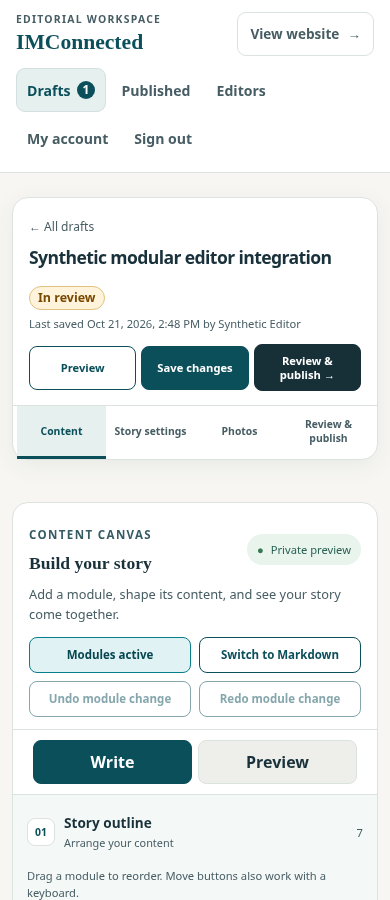
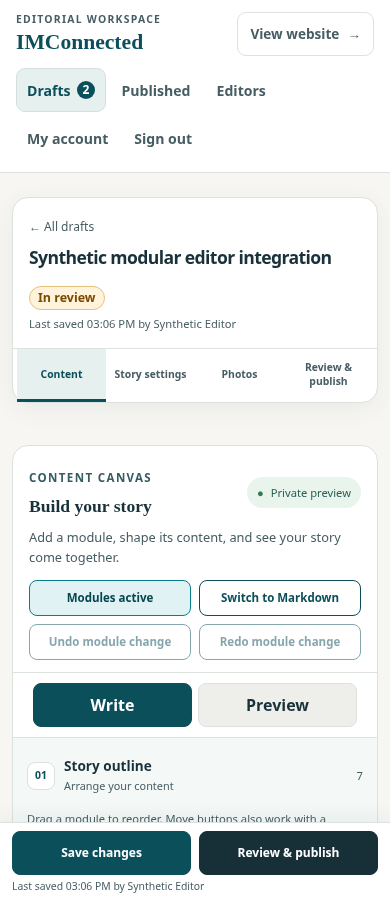
Add GPT delegation roles and refine mobile story editing

diff --git a/src/scripts/story-builder.ts b/src/scripts/story-builder.ts
@@ -34,7 +34,13 @@ if (form && blocksField) {
   const clone = (value: StoryBlock[]) => JSON.parse(JSON.stringify(value)) as StoryBlock[];
   const announce = (message: string) => { status.textContent = message; };
   const changed = () => form.dispatchEvent(new Event('input', { bubbles: true }));
-  const snapshot = () => JSON.stringify({ blocks, modular, body: body.value });
+  const snapshot = () => JSON.stringify({ blocks, modular, body: body.value, selected });
+  function focusSelected() {
+    const target = modular
+      ? outline.querySelector<HTMLButtonElement>(`[data-select-module="${CSS.escape(selected)}"]`) || document.querySelector<HTMLButtonElement>('[data-add-module="text"]')
+      : useModules;
+    target?.focus();
+  }
   function remember(key = '') {
     const now = Date.now();
     if (!key || key !== editKey || now - editAt > 800) {
@@ -63,6 +69,8 @@ if (form && blocksField) {
     if (count) count.textContent = String(blocks.length);
     const summary = document.querySelector('[data-review-content]');
     if (summary) summary.textContent = modular ? `${blocks.length} modules` : 'Markdown story';
+    const start = document.getElementById('module-start-writing');
+    if (start) start.hidden = !(blocks.length === 1 && blocks[0].type === 'text' && !blocks[0].text);
     for (const button of document.querySelectorAll<HTMLButtonElement>('[data-add-module="image"]')) {
       button.disabled = !editable || !photos.some((p) => p.src);
       button.title = photos.some((p) => p.src) ? 'Place a story photo in the text' : 'Upload a photo in Photos first';
@@ -87,8 +95,9 @@ if (form && blocksField) {
     if (!editable || from < 0 || to < 0 || to >= blocks.length || from === to) return;
     remember();
     blocks.splice(to, 0, blocks.splice(from, 1)[0]);
+    selected = id;
     render(); changed(); announce(`Module moved to position ${to + 1}.`);
-    outline.querySelector<HTMLButtonElement>(`[data-select-module="${id}"]`)?.focus();
+    focusSelected();
   }
   function renderOutline() {
     outline.replaceChildren();
@@ -96,7 +105,7 @@ if (form && blocksField) {
       const item = node('li');
       item.draggable = editable;
       item.dataset.moduleId = block.id;
-      const select = button(`${index + 1}. ${labels[block.type]}`, () => { selected = block.id; render(); }, `Edit ${labels[block.type]} module ${index + 1}`);
+      const select = button(`${index + 1}. ${labels[block.type]}`, () => { selected = block.id; render(); focusSelected(); }, `Edit ${labels[block.type]} module ${index + 1}`);
       select.dataset.selectModule = block.id;
       const grip = node('span', '⠿', 'sb-grip'); grip.setAttribute('aria-hidden', 'true'); select.prepend(grip);
       select.setAttribute('aria-pressed', String(selected === block.id));
@@ -134,6 +143,7 @@ if (form && blocksField) {
     const input = multiline ? node('textarea') : node('input');
     if (input instanceof HTMLInputElement) input.type = key === 'url' ? 'url' : 'text';
     input.value = value;
+    if (key === 'text' && block.type === 'text') input.placeholder = 'Start writing your story here…';
     input.dataset.moduleField = key;
     input.maxLength = key === 'alt' || block.type === 'heading' ? 300 : key === 'label' ? 120 : multiline ? 20000 : 2048;
     if (input instanceof HTMLTextAreaElement) input.rows = key === 'items' ? 6 : 9;
@@ -165,6 +175,14 @@ if (form && blocksField) {
     const block = blocks.find((b) => b.id === selected);
     if (!block) { title.textContent = 'Module settings'; fields.append(node('p', 'Choose a module, or add one to start your story.', 'admin-note')); return; }
     title.textContent = `${labels[block.type]} settings`;
+    if (block.type === 'text') {
+      const start = node('div', undefined, 'sb-start-writing');
+      start.id = 'module-start-writing';
+      start.hidden = !(blocks.length === 1 && !block.text);
+      start.append(node('p', 'Start writing your story. Your first paragraph is ready.'));
+      start.append(button('Start writing', () => fields.querySelector<HTMLTextAreaElement>('textarea')?.focus()));
+      fields.append(start);
+    }
     if (['text', 'heading', 'quote'].includes(block.type)) field(block, block.type === 'heading' ? 'Heading text' : block.type === 'quote' ? 'Quote text' : 'Paragraph text (Markdown supported)', 'text', block.text || '', block.type !== 'heading');
     if (block.type === 'heading') {
       const label = node('label', 'Heading level');
@@ -183,7 +201,11 @@ if (form && blocksField) {
       const select = node('select'); select.dataset.moduleField = 'photoId';
       const placeholder = node('option', 'Choose a photo'); placeholder.value = ''; select.append(placeholder);
       for (const [i, photo] of photos.entries()) { if (!photo.src) continue; const option = node('option', `${i + 1}. ${photo.alt || 'Story photo'}`); option.value = String(photo.id); option.selected = photo.id === block.photoId; select.append(option); }
-      select.addEventListener('change', () => { update(block, 'photoId', select.value ? Number(select.value) : undefined); renderFields(); });
+      select.addEventListener('change', () => {
+        update(block, 'photoId', select.value ? Number(select.value) : undefined);
+        renderFields();
+        fields.querySelector<HTMLSelectElement>('[data-module-field="photoId"]')?.focus();
+      });
       label.append(select); fields.append(label);
       const photo = photos.find((p) => p.id === block.photoId);
       if (photo?.src) { const img = node('img'); img.src = photo.src; img.alt = block.alt || photo.alt; img.className = 'sb-module-image'; fields.append(img); }
@@ -195,10 +217,10 @@ if (form && blocksField) {
     const actions = node('div', undefined, 'sb-controls');
     actions.append(button('Duplicate module', () => {
       if (blocks.length >= 60) { announce('A story can have up to 60 modules.'); return; }
-      remember(); const copy = clone([block])[0]; copy.id = uid(); blocks.splice(blocks.indexOf(block) + 1, 0, copy); selected = copy.id; render(); changed(); announce('Module duplicated.');
+      remember(); const copy = clone([block])[0]; copy.id = uid(); blocks.splice(blocks.indexOf(block) + 1, 0, copy); selected = copy.id; render(); focusSelected(); changed(); announce('Module duplicated.');
     }), button('Delete module', () => {
       if (!window.confirm(`Delete this ${labels[block.type].toLowerCase()} module? You can undo this change.`)) return;
-      remember(); const at = blocks.indexOf(block); blocks.splice(at, 1); selected = blocks[Math.min(at, blocks.length - 1)]?.id || ''; render(); changed(); announce('Module deleted. Use Undo module change to restore it.');
+      remember(); const at = blocks.indexOf(block); blocks.splice(at, 1); selected = blocks[Math.min(at, blocks.length - 1)]?.id || ''; render(); focusSelected(); changed(); announce('Module deleted. Use Undo module change to restore it.');
     }));
     fields.append(actions);
   }
@@ -237,8 +259,8 @@ if (form && blocksField) {
     fields.querySelector<HTMLElement>('input,textarea,select,button')?.focus();
   });
   function restore(raw: string) {
-    const state = JSON.parse(raw); blocks = state.blocks; modular = state.modular; body.value = state.body; selected = blocks.find((b) => b.id === selected)?.id || blocks[0]?.id || '';
-    editKey = ''; render(); changed();
+    const state = JSON.parse(raw); blocks = state.blocks; modular = state.modular; body.value = state.body; selected = state.selected || blocks[0]?.id || '';
+    editKey = ''; render(); focusSelected(); changed();
   }
   undo.addEventListener('click', () => { if (!editable || !history.length) return; future.push(snapshot()); restore(history.pop()!); announce('Module change undone.'); });
   redo.addEventListener('click', () => { if (!editable || !future.length) return; history.push(snapshot()); restore(future.pop()!); announce('Module change restored.'); });
@@ -329,6 +351,13 @@ if (form && blocksField) {
     });
   }
   for (const control of document.querySelectorAll<HTMLElement>('[data-open-panel]')) control.addEventListener('click', () => setPanel(control.dataset.openPanel!, true));
+  const saveStatus = document.getElementById('save-status');
+  const mobileSaveStatus = document.querySelector('[data-mobile-save-status]');
+  if (saveStatus && mobileSaveStatus) {
+    const reflectStatus = () => { mobileSaveStatus.textContent = saveStatus.textContent; };
+    reflectStatus();
+    new MutationObserver(reflectStatus).observe(saveStatus, { childList: true, subtree: true, characterData: true });
+  }
   for (const control of document.querySelectorAll('[data-studio-preview]')) control.addEventListener('click', () => {
     setPanel('content');
     document.getElementById('split')!.dataset.view = 'preview';

diff --git a/src/styles/story-builder.css b/src/styles/story-builder.css
@@ -63,6 +63,9 @@
 .studio-identity .ed-status { font-size:.7rem; color:var(--ink-2); }
 .studio-primary-actions { display:flex; align-items:center; flex-wrap:wrap; gap:8px; flex-shrink:0; }
 .studio-primary-actions .cms-btn { font-size:.8rem; }
+.studio-mobile-actions { display:none; }
+.sb-start-writing { padding:14px; margin-bottom:16px; border:1px solid var(--line); border-radius:10px; background:var(--bg); }
+.sb-start-writing p { font-size:.85rem; line-height:1.5; margin:0 0 10px; }
 .studio-review-action { background:#172f37; border-color:#172f37; color:white; }
 .studio-tabs { display:grid; grid-template-columns:repeat(4,minmax(0,1fr)); border-top:1px solid var(--line); padding:0 12px; gap:6px; }
 .studio-tabs button { border:0; border-bottom:3px solid transparent; background:transparent; color:var(--ink-2); text-align:left; min-height:66px; padding:12px 16px; font:700 .85rem var(--sans); cursor:pointer; }
@@ -143,6 +146,14 @@
  .editor-studio .sb-photo-preview img { max-width:560px; height:auto; aspect-ratio:16/9; }
 }
 @media(max-width:650px) {
+ .studio-head { position:static; }
+ .studio-primary-actions { display:none; }
+ .editor-studio { padding-bottom:calc(96px + env(safe-area-inset-bottom,0px)); }
+ html:has(.editor-studio) { scroll-padding-bottom:calc(110px + env(safe-area-inset-bottom,0px)); }
+ .editor-studio :is(button,input,textarea,select,[tabindex]) { scroll-margin-bottom:calc(110px + env(safe-area-inset-bottom,0px)); }
+ .studio-mobile-actions { display:grid; grid-template-columns:repeat(2,minmax(0,1fr)); gap:4px 8px; position:fixed; z-index:30; bottom:0; left:0; right:0; padding:8px max(12px,env(safe-area-inset-right,0px)) calc(6px + env(safe-area-inset-bottom,0px)) max(12px,env(safe-area-inset-left,0px)); background:var(--surface); border-top:1px solid var(--line); box-shadow:0 -4px 20px #173e4410; }
+ .studio-mobile-actions .cms-btn { min-height:44px; font-size:.75rem; }
+ .studio-mobile-actions [data-mobile-save-status] { grid-column:1/-1; white-space:nowrap; overflow:hidden; text-overflow:ellipsis; color:var(--ink-2); font-size:.65rem; line-height:1.4; }
  .studio-titlebar { align-items:flex-start; flex-direction:column; gap:10px; }
  .studio-primary-actions { width:100%; }
  .studio-primary-actions .cms-btn { flex:1; font-size:.7rem; min-height:44px; }

diff --git a/src/lib/story-block-render.ts b/src/lib/story-block-render.ts
@@ -27,7 +27,9 @@ export async function renderStoryBlocksSafe(input: StoryBlock[], options: StoryB
         // Only the trusted callback can return a protected editor photo endpoint.
         if (!isStoryImageUrl(url) && !(photo && /^\/api\/admin\/photos\/\d+$/.test(url))) break;
         const x = focalPoint(photo?.focalX ?? b.focalX), y = focalPoint(photo?.focalY ?? b.focalY);
-        out.push(`<figure class="story-module story-module-image"${attr}><a href="${escapeHtml(url)}" data-photo><img src="${escapeHtml(url)}" alt="${escapeHtml(b.alt || photo?.alt || '')}" loading="lazy" decoding="async" style="width:100%;aspect-ratio:16/9;object-fit:cover;object-position:${x}% ${y}%;"></a></figure>`);
+        const alt = b.alt || photo?.alt || '';
+        const linkLabel = alt.trim() ? '' : ' aria-label="Enlarge story photo"';
+        out.push(`<figure class="story-module story-module-image"${attr}><a href="${escapeHtml(url)}" data-photo${linkLabel}><img src="${escapeHtml(url)}" alt="${escapeHtml(alt)}" loading="lazy" decoding="async" style="width:100%;aspect-ratio:16/9;object-fit:cover;object-position:${x}% ${y}%;"></a></figure>`);
         break;
       }
     }

diff --git a/CODEX.md b/CODEX.md
@@ -1,0 +1,51 @@
+# Codex: delegating to GPT subagents
+
+Read [AGENTS.md](AGENTS.md) first. This is the GPT counterpart to [CLAUDE.md](CLAUDE.md), with the owner's model mapping:
+
+| Existing tier | GPT tier | Responsibility | Availability observed on 2026-10-21 |
+| --- | --- | --- | --- |
+| Haiku | Luna | Explorer: broad searches, tracing flows, log summaries and visual QA | `gpt-6-luna`, medium reasoning, read-only |
+| Sonnet | Tera | Implementer: a bounded change with acceptance criteria and owned files | Tera is unavailable here; role inherits the session model |
+| Opus | Sol | Reviewer: independent correctness, security and accessibility review | `gpt-6-sol`, high reasoning, read-only |
+| Astra | Fable | Optional strategist: a bounded difficult investigation | Fable is unavailable here; role inherits the session model, read-only |
+
+These are the owner's routing preferences, not claims about model equivalence. Recheck model IDs against the current tool's model list; availability above records the setup session and may change. Tera and Fable had no selectable IDs when these files were prepared: do not guess IDs. When a role inherits the session model, disclose the actual model before assigning it; do not claim Tera or Fable ran. Pin those roles only when the client exposes a verified ID. Do not silently replace an existing pin when it becomes unavailable.
+
+`.codex/config.toml` registers the four roles for Codex clients that support project-local agent configuration. The role files contain sandbox and task instructions. Project configuration requires the client's normal project trust settings; committing it does not change a running cloud session or install models. In clients exposing collaboration tools instead, select the available model explicitly and pass the relevant role instructions in the task.
+
+## Route work by responsibility
+
+- Use **explorer / Luna** for substantial independent research, repository-wide flow tracing, long logs, screenshots and read-only browser measurements. Do small targeted lookups in the main session.
+- Use **implementer / Tera** for one concrete change with acceptance criteria. A direct user request with clear scope is sufficient authorization; an issue number or `codex-ready` label is useful when present, not a prerequisite for requested work. Return uncertain product decisions to the main session.
+- Use **reviewer / Sol** before opening/updating a code PR or pushing a substantial change. Reviewers report findings and reproduce failures; they do not edit fixes. Include severity, file/line, trigger, user impact and verification evidence. Report no findings plainly when appropriate.
+- Use **strategist / Fable** only for a difficult, bounded investigation when available. It proposes a diagnosis or options; the main session retains design decisions, story copy, user communication and integration.
+
+Parallelize independent work with disjoint file ownership. In a shared checkout, every agent sees every edit. Use the existing cloud checkout; do not create worktrees unless the user requests them. Avoid parallel builds that replace the same `dist/` output, tests sharing a port/database, and overlapping writers. Subagents should not recursively delegate unless the coordinator explicitly assigns that scope.
+
+## Give a complete handoff
+
+Pass each agent the repository path, role, actual selected model, goal, relevant context, acceptance criteria, exact owned files, permitted checks and prohibited actions. Specify whether it may edit. Start bounded agents without the full conversation when practical; include the facts they need rather than relying on hidden context.
+
+For example:
+
+```text
+Role: implementer; intended Tera, actual model: <selectable model disclosed to user>
+Repo: /workspace/IMConnected; read AGENTS.md and CODEX.md.
+Goal: keep keyboard focus on the selected story module after outline rerendering.
+Own: src/scripts/story-builder.ts and its existing browser regression suite.
+Accept: Enter/Space selects the requested module; focus remains visible; duplicate,
+delete and undo/redo select a valid control; legacy Markdown remains unchanged.
+Checks: synthetic local browser regression. Do not build concurrently with coordinator.
+Do not commit, push, contact production services or edit other files. Return changed
+files, checks actually run, remaining risks and any questions affecting behavior.
+```
+
+## Fix, verify and integrate
+
+Send concrete review findings and failing output back to the original implementer. Keep fixes with the implementation role. After two unsuccessful fix rounds on the same issue, the main session diagnoses the hard part and gives a precise next step. A missing model is an availability limit, not permission to claim a different tier ran.
+
+Treat an agent's “done” as a claim. The coordinator inspects the combined diff and independently runs `npm run build` plus relevant existing suites. For the story builder, use `test-story-blocks.mjs`, `test-story-builder.mjs`, `test-story-builder-ui.mjs` and `test-editor-save-race.mjs`; include public-page/photo-layout checks when their rendering changes. Run the responsive design crawl for public visual changes. See [the design review](docs/DESIGN_REVIEW.md) for commands and browser prerequisites. Distinguish passes, failures, skipped comparisons and checks not run. Do not add trivial tests for documentation or configuration edits.
+
+Use synthetic accounts, stories, images, local mock integrations and throwaway `DATA_DIR` only. SQLite remains the source of story truth. Preserve the frozen content archive and all production/human gates in AGENTS.md. Never let role instructions authorize production publishing, deployment, merging, real email, secret changes or access to real submissions.
+
+Commit/push only within the user's authorized scope, after independent review and verification. Report the branch/commit, actual model routing, visible changes and any material limitations. Keep review screenshots in `docs/design/` with synthetic content so the user can view them on GitHub.

diff --git a/docs/DESIGN_REVIEW.md b/docs/DESIGN_REVIEW.md
@@ -8,11 +8,22 @@ The earlier pass left the existing page structure mostly intact: a large empty h
 
 - The public site has a publication masthead, separate section-navigation band, typographic feature cover, numbered latest-story rail, topic directory and a redesigned conference board. Stories without photographs use an intentional text cover instead of a large empty picture placeholder.
 - Article pages have a clearer breadcrumb/headline/byline hierarchy and a focused reading column. The footer has a stronger submission invitation. Existing story URLs, feeds, section routes and image focus remain supported.
-- The editor starts with its content workspace. Metadata is in **Story settings**, image management is in **Photos**, and publishing is in **Review & publish**. A sticky toolbar keeps Save and private Preview available. Inactive panels are hidden and inert while their fields remain part of the saved form.
+- The editor starts with its content workspace. Metadata is in **Story settings**, image management is in **Photos**, and publishing is in **Review & publish**. A desktop sticky toolbar keeps Save and private Preview available; phones use a compact bottom Save/Review bar and let the header scroll away. Inactive panels are hidden and inert while their fields remain part of the saved form.
 - Desktop editing uses an outline/module library, selected-module settings and reader preview. The outline and settings can scroll independently. Mobile has explicit task tabs and Write/Preview controls rather than offscreen panels that remain keyboard-focusable.
 - Paragraph, heading, quote, list, image, button/link and divider modules support ordering, duplicate/delete and undo/redo. Existing Markdown is retained; empty new drafts begin with a paragraph module. Previewing does not publish.
 - Photo editing shows a reader-crop preview beside the original image and focal marker. Dragging, arrows, Shift+arrows, labelled sliders and Center focus all update the stored point. Original image proportions are preserved in the focal pad so pointer coordinates match the image.
 - Additive migration 017 stores modules and focal coordinates. Save/publish/live-edit round trips retain them, and the save queue flushes later edits before publishing or photo operations.
+
+## GPT delegation and follow-up review
+
+[CODEX.md](../CODEX.md) and `.codex/agents/` adapt the delegation workflow to the owner's mapping: **Haiku → Luna, Sonnet → Tera, Opus → Sol, Astra → Fable**. The configuration pins the available Luna explorer and Sol reviewer. Tera/Fable were unavailable in the setup session, so their roles explicitly inherit the session model and require disclosure of the actual model. They have no invented model IDs. The TOML files were checked against the current official Codex configuration schema.
+
+The follow-up used Luna for research, an already-running `gpt-6.1-sol` implementation assignment, and `gpt-6-sol` for the final independent review after the mapping correction. Tera and Fable were not run. The main session integrated and verified the changes.
+
+- Phone editing has a compact bottom action bar with saved status and safe-area spacing. Desktop actions leave the keyboard order when hidden, and the editor reserves room below content for the phone bar.
+- New stories show an explicit Start writing action and a paragraph placeholder. Opening a story does not automatically focus a text field on phones.
+- Module selection, duplicate/delete, undo/redo and image selection retain deliberate keyboard focus after controls are recreated.
+- Stories with every photo placed inline retain their photo credit once. Existing lead/layout credits remain escaped and appear once. Blank-alt inline images have a named enlargement link without inventing image descriptions.
 
 ## Website
 
@@ -30,15 +41,19 @@ These editor screenshots use a synthetic account, synthetic text and a generated
 
 ![Content workspace at phone width](design/editor-mobile.png)
 
+![Starting a new story on a phone](design/editor-empty-mobile.png)
+
 ## Validation
 
 The production Astro build passed. The design crawl checked home, section, story, submission, search and sign-in screens at 360, 390, 768, 1024 and 1440 pixels: **30 responsive screens and 98 checks passed**, including keyboard navigation, overflow, script errors and axe WCAG A/AA checks. All four editor panels also passed axe WCAG A/AA checks.
 
+The GPT follow-up reran the build, 15 module checks, SQLite integration, 50 editor browser checks, pending-save regression, public-page suite and photo-layout/viewer suite. The other rows below record the earlier full redesign verification. The final independent Sol review reported no remaining findings.
+
 | Check | Passed | Failed | Skipped |
 | --- | ---: | ---: | ---: |
-| Module schema and safe rendering | 14 | 0 | 0 |
+| Module schema and safe rendering | 15 | 0 | 0 |
 | SQLite module/focus round trips | Integration passed | 0 | 0 |
-| Editor browser workflow | 25 | 0 | 0 |
+| Editor browser workflow | 50 | 0 | 0 |
 | Pending-save publish regression | Integration passed | 0 | 0 |
 | Existing editor suite | 159 | 0 | 0 |
 | Submission suite | 92 | 0 | 0 |

diff --git a/AGENTS.md b/AGENTS.md
@@ -2,6 +2,11 @@
 
 Instructions for AI coding agents (Codex, Claude) working in this repo.
 
+## Codex delegation
+- Read [CODEX.md](CODEX.md) for GPT subagent routing, task handoffs and verification. Delegate useful independent work without asking first; keep design decisions and final integration in the main session.
+- The owner's model mapping is **Haiku → Luna, Sonnet → Tera, Opus → Sol, Astra → Fable**. Check the session's selectable models and report actual model use. Never invent a model ID or describe an inherited model as Tera/Fable.
+- Project-local role configurations live in `.codex/config.toml` and `.codex/agents/`. They supplement these repository rules; clients without native role support should use the same handoff instructions with their available collaboration tools.
+
 ## Stack
 - Astro 7 (`output: 'static'` + `@astrojs/node` standalone). Pages are prerendered, and only `src/pages/api/submit.ts`, `src/pages/api/publish.ts`, `src/pages/api/stories.ts` (`/api/stories`), `src/pages/api/studio-photo.ts` (`/api/studio-photo`), `src/pages/api/confirm.ts`, `GET /media/*` (`src/pages/media/[...path].ts`), the public story pages and feeds (`/`, `/stories/<slug>/`, `/<section>/`, `/<section>/<area>/`, `/stories.json`, `/rss.xml`; epic #25 step 2), `/images/stories/*` (only reached when the static file is missing), `/api/search` (epic #25 step 3), `/api/agent/*`, `/admin*` and `/api/admin/*` run on the server (`prerender = false`). `/submit/`, `/search/`, `/confirm/` and the 404 page are still prerendered.
 - Content: stories live in the SQLite database (`stories` and `story_photos`, photos in `DATA_DIR/media`), with the field set defined by `src/content.config.ts`. `src/content/stories/*.md` and `public/images/stories/` are a **frozen archive**: the server reads the built copy once, to adopt it (`src/lib/story-adopt.ts`), and never again.

diff --git a/CLAUDE.md b/CLAUDE.md
@@ -2,6 +2,9 @@
 
 # Claude Code: delegating to subagents
 
+For the GPT/Codex counterpart and the owner's Luna/Tera/Sol/Fable mapping, see
+[CODEX.md](CODEX.md). Codex role configurations live in `.codex/`.
+
 These rules are for Claude Code only (Codex reads `AGENTS.md`). Delegate by
 these rules without asking first; they count as the user's request to use
 subagents. The agents live in `.claude/agents/`.
